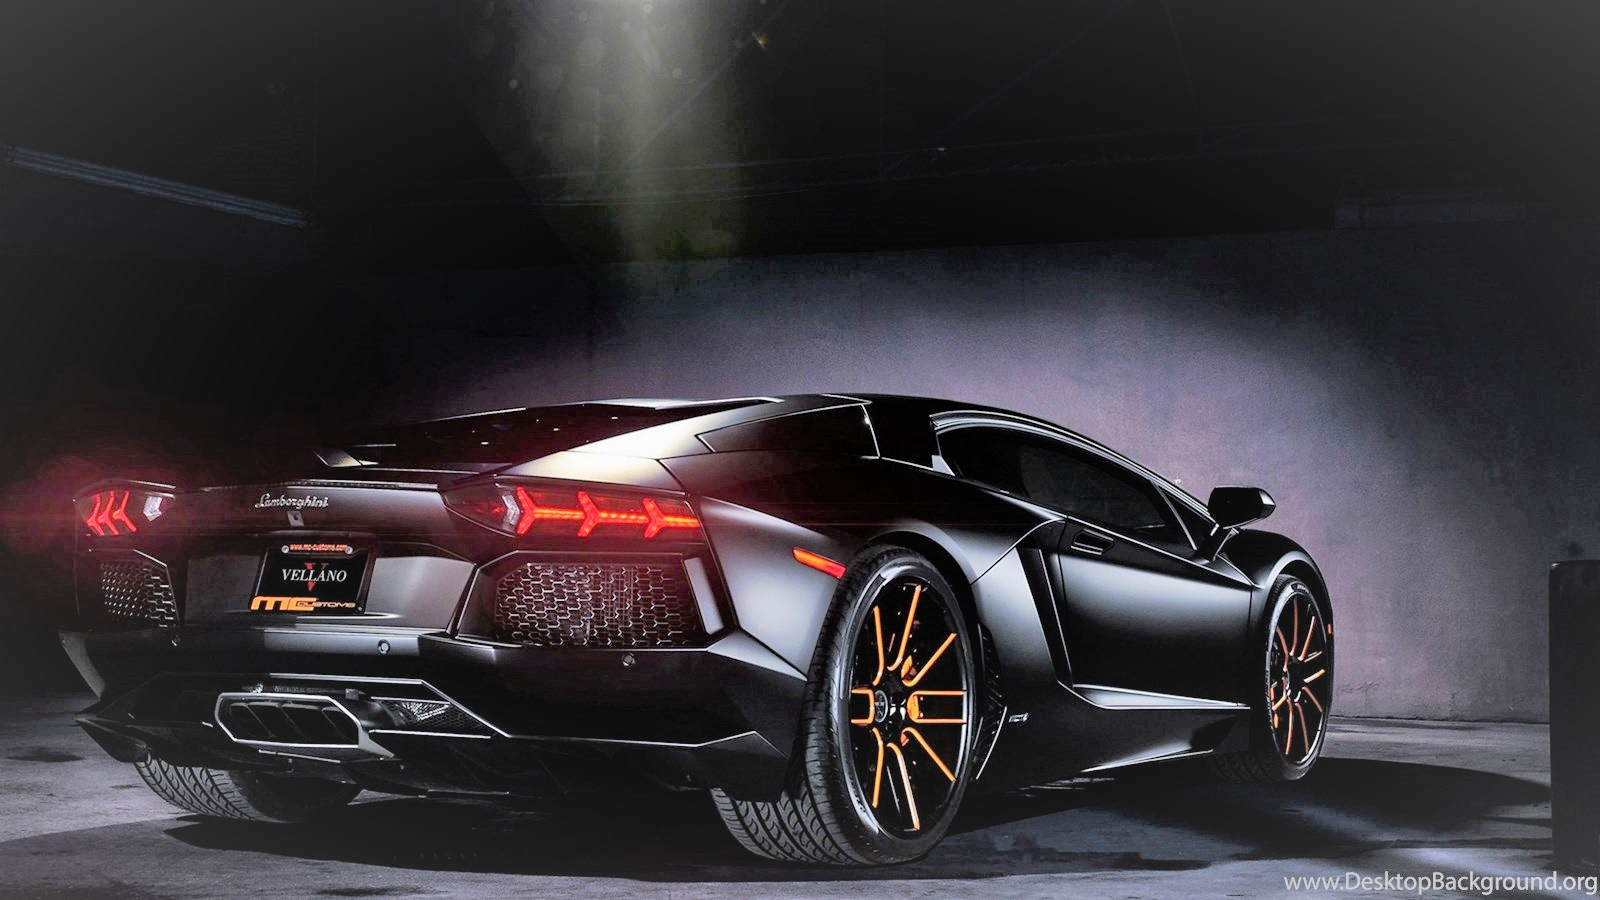
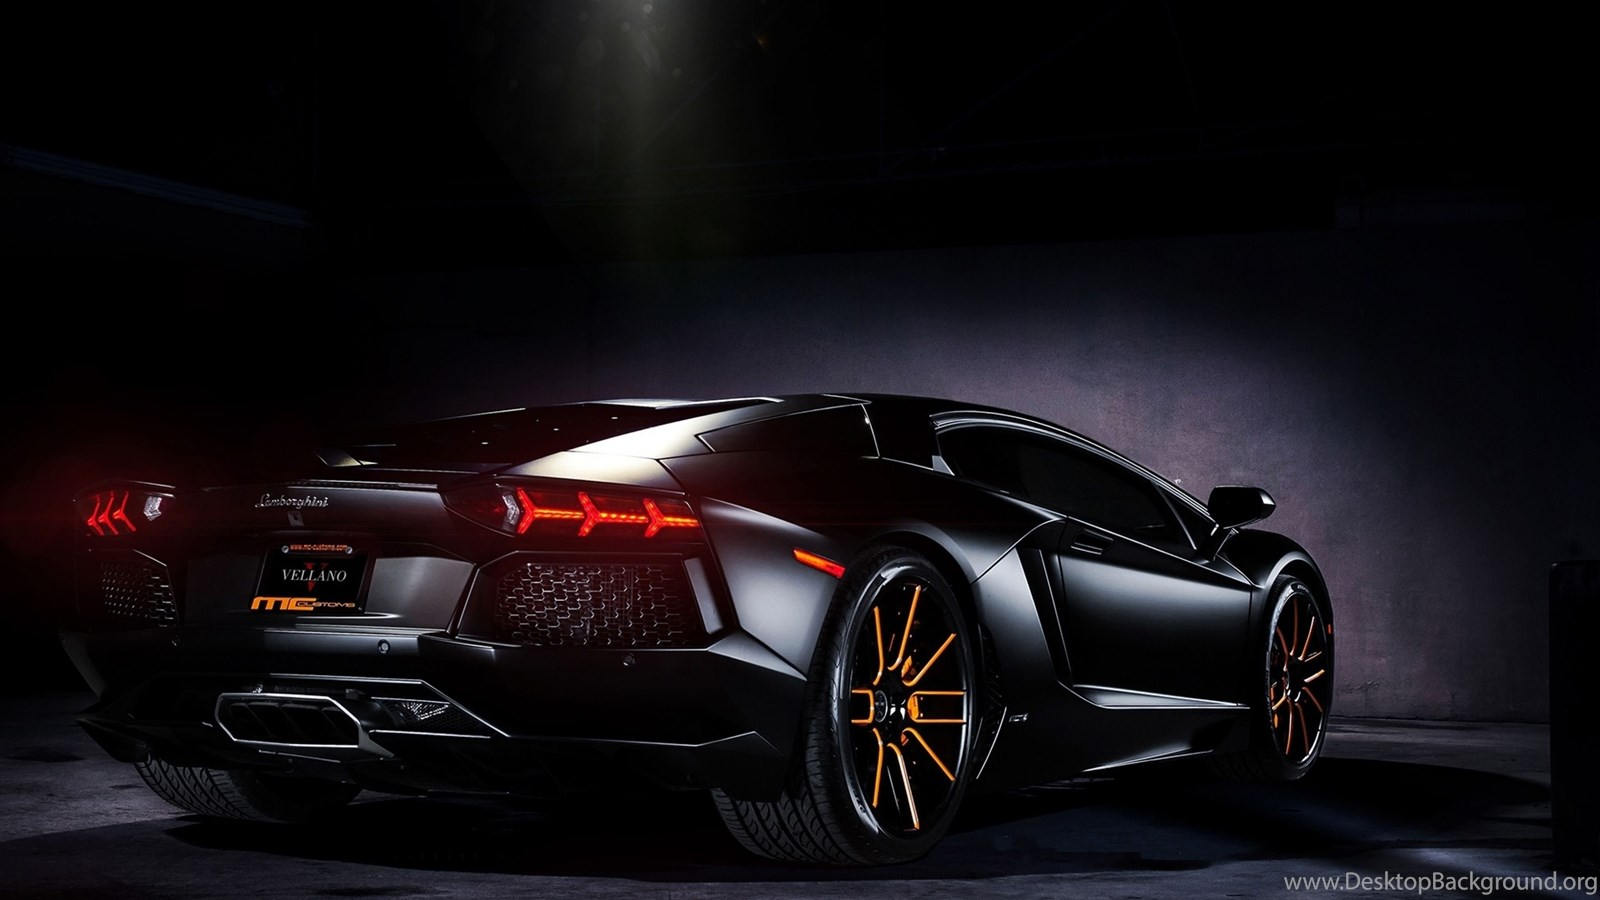
1) carousal pictures updated 2) picture bg layer identified.

diff --git a/index.html b/index.html
@@ -46,9 +46,11 @@
 
       <div id="logo" class="pull-left" style="padding-top:10px;">
         <div id="wrapping_logo_text">
-          <h3><a id="first_line" href="#intro" class="scrollto">noCnex</a></h3>
+          <h3><a id="first_line" href="#intro" class="scrollto">noCneX</a></h3>
           <h3><a id="second_line" href="#intro" class="scrollto">Technologies</a></h3>
         </div>
+          <!-- <p><a id="second_line" href="#intro" class="scrollto">We do engineering with passion</a></p> -->
+
         <!-- Uncomment below if you prefer to use an image logo -->
         <a href="#intro"><img src="assets/img/logo.png" alt=""></a>
       </div>
@@ -76,7 +78,7 @@
   </header><!-- End Header -->
 
   <!-- ======= Intro Section ======= -->
-  <section id="intr">
+  <section id="intro">
     <div class="intro-container">
       <div id="introCarousel" class="carousel  slide carousel-fade" data-ride="carousel">
 
@@ -86,7 +88,8 @@
 
           <div class="carousel-item active">
             <div class="carousel-background"><img src="assets/img/intro-carousel/1.jpg" alt=""></div>
-            <div class="overlay"></div>  <!-- Separate class other than Bootstrap -->
+            <div class="overlay"></div>
+            <!-- Separate class other than Bootstrap -->
             <div class="carousel-container">
               <div class="carousel-content">
                 <div class="carousel-caption-heading">
@@ -165,7 +168,15 @@
     </div>
   </section><!-- End Intro Section -->
 
-
+<div class="jumbotron">
+  <h1 class="display-3">Hello, world!</h1>
+  <p class="lead">This is a simple hero unit, a simple jumbotron-style component for calling extra attention to featured content or information.</p>
+  <hr class="m-y-md">
+  <p>It uses utility classes for typography and spacing to space content out within the larger container.</p>
+  <p class="lead">
+    <a class="btn btn-primary btn-lg" href="#" role="button">Learn more</a>
+  </p>
+</div>
 
 
 
@@ -175,14 +186,14 @@
   <script src="assets/vendor/bootstrap/js/bootstrap.bundle.min.js"></script>
   <script src="assets/vendor/jquery.easing/jquery.easing.min.js"></script>
   <script src="assets/vendor/wow/wow.min.js"></script>
-  <script src="assets/vendor/waypoints/jquery.waypoints.min.js"></script>
-  <script src="assets/vendor/counterup/counterup.min.js"></script>
-  <script src="assets/vendor/isotope-layout/isotope.pkgd.min.js"></script>
-  <script src="assets/vendor/venobox/venobox.min.js"></script>
+  <!-- <script src="assets/vendor/waypoints/jquery.waypoints.min.js"></script> -->
+  <!-- <script src="assets/vendor/counterup/counterup.min.js"></script> -->
+  <!-- <script src="assets/vendor/isotope-layout/isotope.pkgd.min.js"></script> -->
+  <!-- <script src="assets/vendor/venobox/venobox.min.js"></script> -->
   <script src="assets/vendor/owl.carousel/owl.carousel.min.js"></script>
   <script src="assets/vendor/superfish/superfish.min.js"></script>
-  <script src="assets/vendor/hoverIntent/hoverIntent.js"></script>
-  <script src="assets/vendor/jquery-touchswipe/jquery.touchSwipe.min.js"></script>
+  <!-- <script src="assets/vendor/hoverIntent/hoverIntent.js"></script> -->
+  <!-- <script src="assets/vendor/jquery-touchswipe/jquery.touchSwipe.min.js"></script> -->
 
   <!-- Template Main JS File -->
   <script src="assets/js/main.js"></script>

diff --git a/assets/css/style.css b/assets/css/style.css
@@ -192,6 +192,12 @@ h1, h2, h3, h4, h5, h6 {
 
 }
 
+#header #logo p a{
+  font-size: 10px;
+  color: var(--mt-color-link);
+  letter-spacing: 3px;
+
+}
 
 #header #logo h3 a, #header #logo h3 a:hover {
   color: #fff;
@@ -200,6 +206,8 @@ h1, h2, h3, h4, h5, h6 {
 /* Yellow border in the left side of logo text */
 /* #header #logo #wrapping_logo_text{
   border-left: 4px solid var(--mt-color);
+  padding-left: 10px;
+  margin-bottom: 10px !important;
 } */
 
 
@@ -652,7 +660,7 @@ body.mobile-nav-active #mobile-nav-toggle {
 
 #intro .carousel-item::before {
   content: '';
-  background-color: rgba(0, 0, 0, 0.7);
+  background-color: rgba(0, 0, 0, 0.5);
   position: absolute;
   height: 100%;
   width: 100%;
@@ -680,6 +688,11 @@ body.mobile-nav-active #mobile-nav-toggle {
 #intro .carousel-content {
   text-align: center;
 }
+
+/* #intro #introCarousel{
+
+  transition: transform 2s ease, opacity 2s ease-out
+} */
 
 #intro h2 {
   color: #fff;
